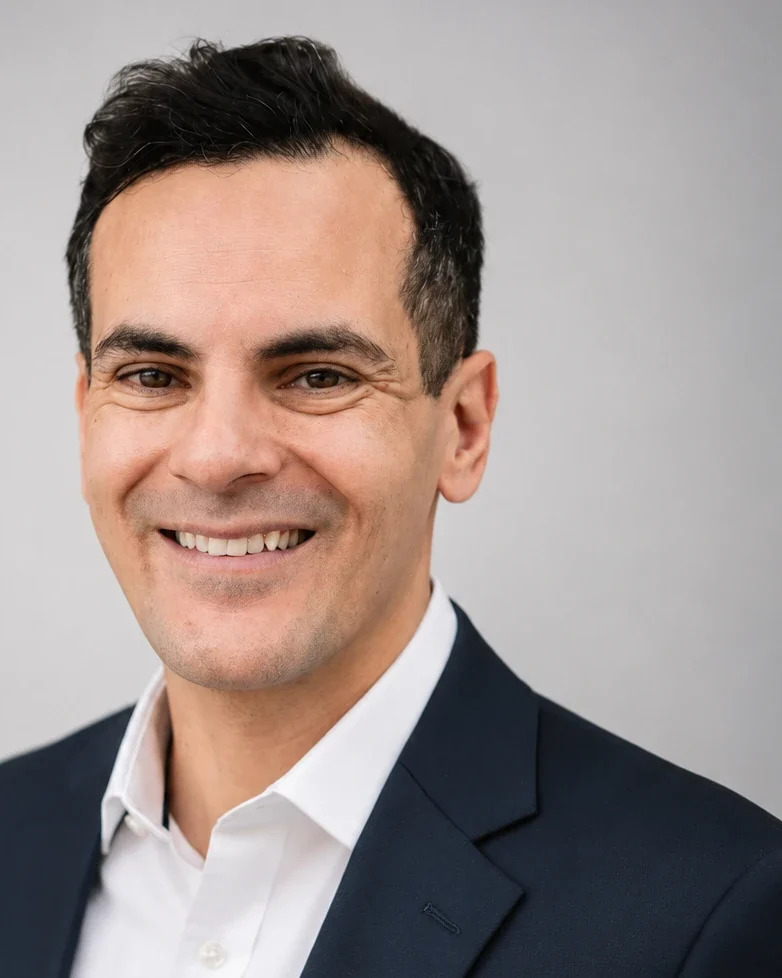
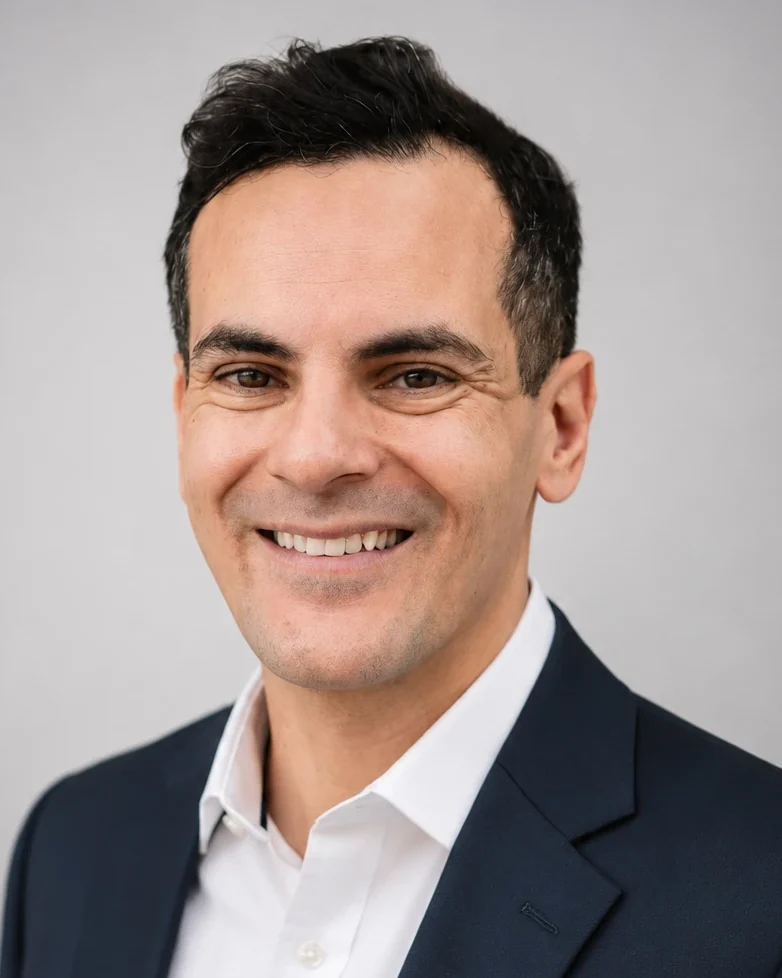
Portrait: cut equally on both sides
98px from each side of the square photo instead of 196px from the left,
so the face sits in the middle of the 4:5 frame.

Claude-Session: https://claude.ai/code/session_01FLEoQmvPetKYhNQvo3crYy

diff --git a/design-system/layout.css b/design-system/layout.css
@@ -362,7 +362,7 @@ main > .cover:first-child { border-top: 0; }
 .portrait { margin: 32px 0 0; border-top: var(--rule-open); padding-top: 16px; max-width: 280px; }
 .portrait img, .portrait-empty { display: block; width: 100%; height: auto; aspect-ratio: 4 / 5; object-fit: cover; }
 /* black and white at rest; the colour returns, slowly, under the pointer
-   (owner, 24 Oct 2026). The photo is cut to 4:5 from the left (src/assets) */
+   (owner, 24 Oct 2026). The photo is cut to 4:5 equally on both sides (src/assets) */
 .portrait img { filter: grayscale(1); transition: filter 600ms var(--ease); }
 .portrait:hover img { filter: grayscale(0); }
 @media (prefers-reduced-motion: reduce) { .portrait img { transition: none; } }
